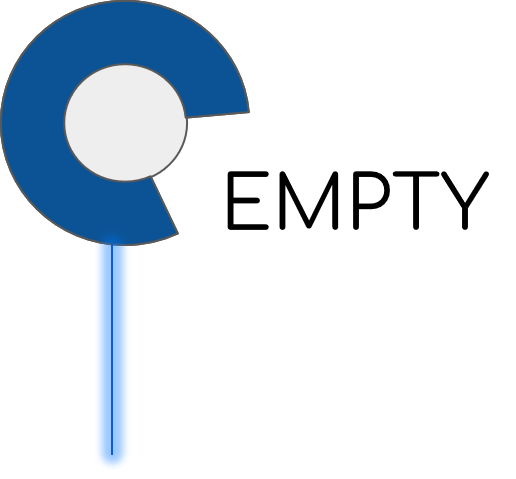
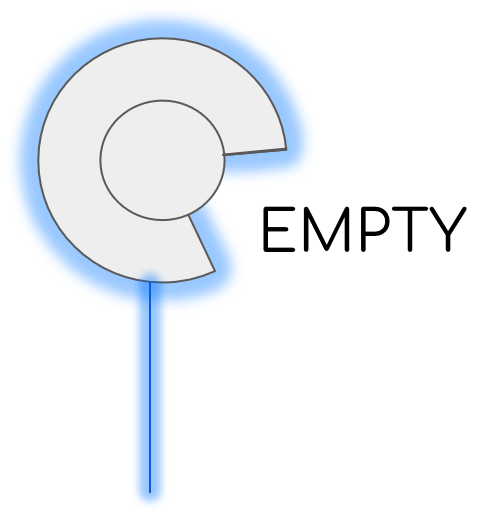
process for markers

diff --git a/js/map.js b/js/map.js
@@ -46,6 +46,70 @@ function resolve_carpark_number(data, carpark_number){
 
 
 
+
+
+function percentage_to_icon(percentange){
+
+    let icon = ""
+
+    if(percentage===100){
+
+        icon="images/full_100.png"
+
+    }else if(percentange >= 90 && percentange < 100){
+
+        icon="images/full_90.png"
+
+    }else if(percentange >= 80 && percentange < 90){
+
+        icon="images/full_80.png"
+        
+    }else if(percentange >= 70 && percentange < 80){
+
+        icon="images/full_70.png"
+        
+    }else if(percentange >= 60 && percentange < 70){
+
+        icon="images/full_60.png"
+        
+    }else if(percentange >= 50 && percentange < 60){
+
+        icon="images/full_50.png"
+        
+    }else if(percentange >= 40 && percentange < 50){
+
+        icon="images/full_40.png"
+        
+    }else if(percentange >= 30 && percentange < 40){
+
+        icon="images/full_30.png"
+        
+    }else if(percentange >= 20 && percentange < 30){
+
+        icon="images/full_20.png"
+        
+    }else if(percentange >= 10 && percentange < 20){
+
+        icon="images/full_10.png"
+        
+    }else if(percentange >= 0 && percentange < 10){
+
+        icon="images/full_0.png"
+        
+    }else{
+
+        icon="images/full_null.png"
+    }
+
+
+    return icon
+
+
+}
+
+
+
+
 async function findCarPark(){
 
     
@@ -63,34 +127,36 @@ async function findCarPark(){
         
         let display_status =  {
                                 "available_lots" : "No information found",
-                                "total_lots": "No information found"
+                                "total_lots": "No information found",
+                                "percentage_lots":0
                                 }
         if (status){
        
             display_status = {
-                                "available_lots":status.carpark_info[0].lots_available,
-                                "total_lots":status.carpark_info[0].total_lots
+                                "available_lots":parseInt(status.carpark_info[0].lots_available),
+                                "total_lots":parseInt(status.carpark_info[0].total_lots),
+                                "percentage_lots":(status.carpark_info[0].lots_available/status.carpark_info[0].total_lots)*100
                                 }
         }
 
         let lat = hdb_json_info.x_coord
         let lng = hdb_json_info.y_coord
-        // console.log(lat, lng)
-
-        var LeafIcon = L.Icon.extend({
-            options: {
-               
-                iconSize:     [60, 70],
+     
+        
+        var modified_icon = L.icon({
+                iconUrl:      percentage_to_icon(display_status["percentage_lots"]),
+                iconSize:     [80, 80],
                 shadowSize:   [0, 0],
-                iconAnchor:   [15, 70],
+                iconAnchor:   [27, 75],
                 shadowAnchor: [0, 0],
                 popupAnchor:  [0, -60]
-            }
-        });
 
-        var greenIcon = new LeafIcon({iconUrl: 'images/full_100.png'})
+            });
 
-        let carParkMarker = L.marker(svy21ToWgs84(lng, lat),{"icon":greenIcon})
+
+
+
+        let carParkMarker = L.marker(svy21ToWgs84(lng, lat),{"icon":modified_icon})
 
         carParkMarker.bindPopup(`<h3 class="carpark_number">${hdb_json_info.address}</h3> <p> Carpark Number: ${hdb_json_info.car_park_no} <br> Available Lots: ${display_status["available_lots"]} <br> Total Lots: ${display_status["total_lots"]} </p><button class="refresh-btn">Refresh</button>`) //Check if refresh-btn attr should be class or id
        
